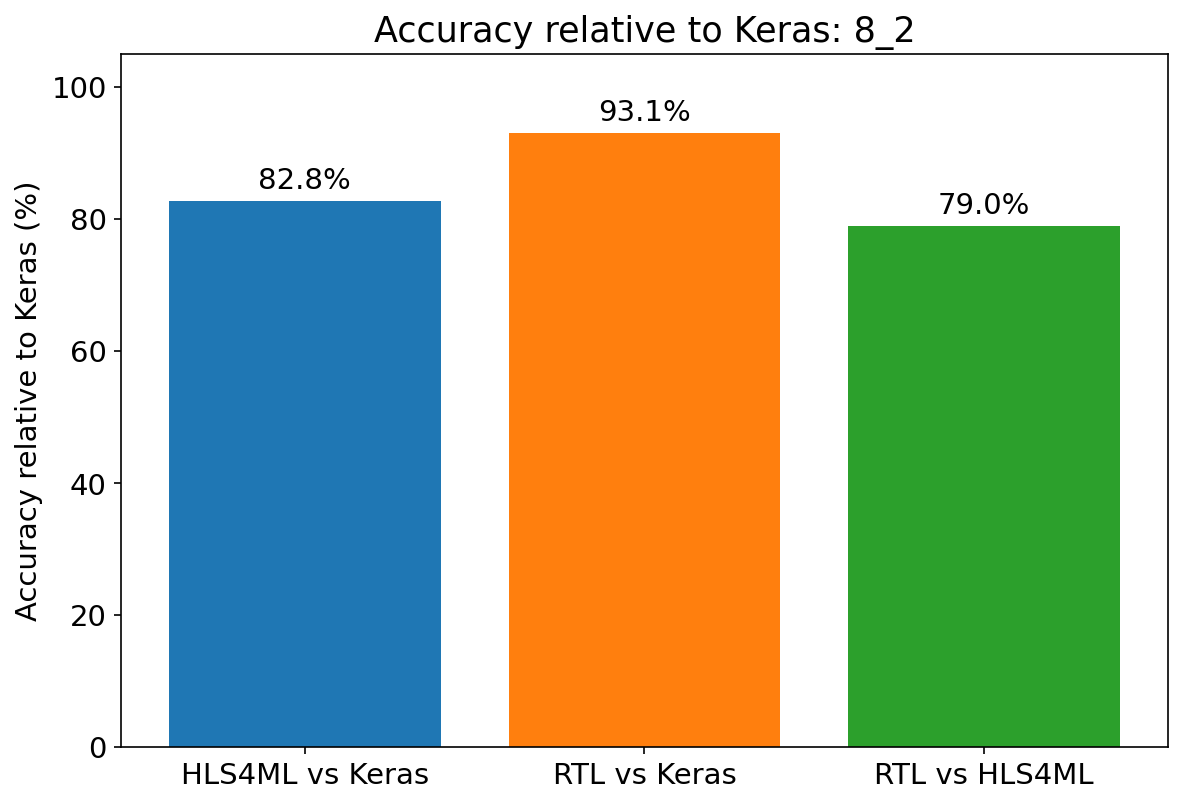
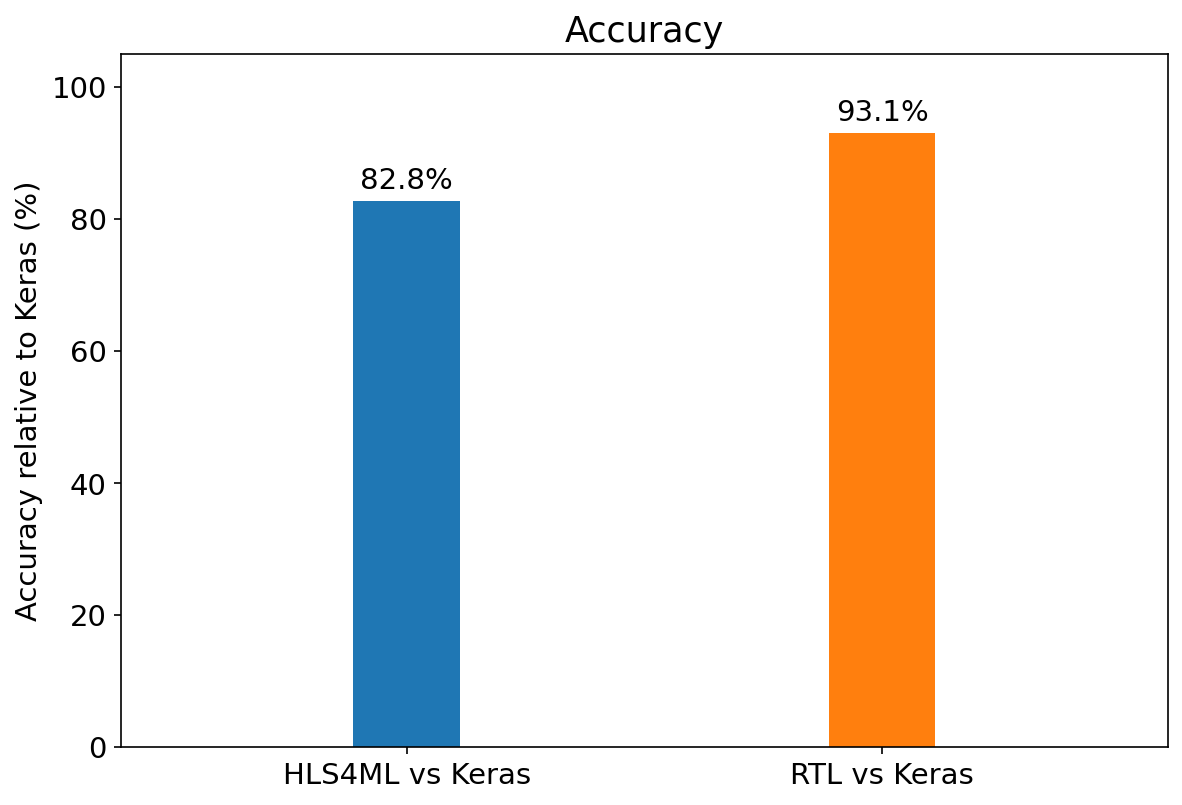
updated graphs

diff --git a/src/hdl/RHEED_Gaussian/Gaussian-Handmade-conv-fixed/scripts/plot_setup.py b/src/hdl/RHEED_Gaussian/Gaussian-Handmade-conv-fixed/scripts/plot_setup.py
@@ -17,8 +17,8 @@ from common import BASE
 from synth_reports import DEVICE_BRAM_TILES, DEVICE_DSPS, DEVICE_FFS, DEVICE_LUTS
 
 RESULTS_CSV = BASE / "results" / "sweep_results.csv"
-HANDMADE_COLOR = "steelblue"
-HLS_COLOR = "darkorange"
+HANDMADE_COLOR = "darkorange"
+HLS_COLOR = "steelblue"
 
 plt.rcParams.update({"font.size": 14})
 
@@ -55,45 +55,66 @@ def plot_utilization(row, tag, graph_dir):
     axis.bar_label(hls_bars, fmt="%.1f%%", padding=3)
     axis.set_xticks(list(positions))
     axis.set_xticklabels(names)
-    axis.set_ylabel("Utilization (% of device)")
+    axis.set_ylabel("Usage (%)")
     axis.set_ylim(0, max(handmade + hls + [1]) * 1.2)
     axis.set_title("Resource Utilization")
     axis.legend()
     figure.savefig(graph_dir / "utilization.png", dpi=150, bbox_inches="tight")
 
 
-# Graph 2: interval and latency ------------
+# Graph 2: latency and initiation interval share one axis (both in µs); clock period (ns) sits to the right ------------
 def plot_timing(row, tag, graph_dir):
-    figure, panels = plt.subplots(1, 2, figsize=(12, 6))
+    width = 0.185
+    gap = 0.62 * width  # bar centres sit a little more than one bar width apart so the value labels fit
+    designs = [("Handmade", "handmade", HANDMADE_COLOR, -gap), ("HLS4ML", "hls", HLS_COLOR, gap)]
+    # panel widths are proportional to the x ranges below, so the bars have the same width in both panels
+    figure, (time_axis, clock_axis) = plt.subplots(1, 2, figsize=(15, 6), gridspec_kw={"width_ratios": [2.2, 1.2]})
 
-    for axis, metric, title in [(panels[0], "interval", "Initiation interval"), (panels[1], "latency", "Total latency")]:
-        cycles = [row["handmade_interval_cycles" if metric == "interval" else "handmade_cycles"],
-                  row["hls_interval_cycles" if metric == "interval" else "hls_cycles"]]
-        microseconds = [row[f"handmade_{metric}_ns"] / 1000, row[f"hls_{metric}_ns"] / 1000]
-        labels = [f"{us:.1f} µs\n{c:.0f} cycles" for us, c in zip(microseconds, cycles)]
-        bars = axis.bar(["Handmade", "HLS4ML"], microseconds, color=[HANDMADE_COLOR, HLS_COLOR])
-        axis.bar_label(bars, labels=labels, padding=3)
-        axis.set_ylabel(f"{title} (µs)")
-        axis.set_ylim(0, max(microseconds) * 1.25)
-        axis.set_title(title)
+    groups = [("Latency", "latency"), ("Initiation interval (II)", "interval")]
+    tallest = 0
+    for position, (name, metric) in enumerate(groups):
+        for label, prefix, color, offset in designs:
+            microseconds = row[f"{prefix}_{metric}_ns"] / 1000
+            bar = time_axis.bar(position + offset, microseconds, width, color=color, label=label if position == 0 else None)
+            time_axis.bar_label(bar, labels=[f"{microseconds:.1f} µs"], padding=3, fontsize=12)
+            tallest = max(tallest, microseconds)
+    time_axis.set_xticks(range(len(groups)))
+    time_axis.set_xticklabels([name for name, _ in groups])
+    time_axis.set_xlim(-0.6, 1.6)
+    time_axis.set_ylim(0, tallest * 1.3)
+    time_axis.set_ylabel("Time (µs)")
+    time_axis.legend()
 
-    figure.suptitle(f"Timing, setup {tag} (clock {row['handmade_period_ns']:g} ns handmade, {row['hls_period_ns']:g} ns HLS4ML)")
+    tallest = 0
+    for label, prefix, color, offset in designs:
+        period = row[f"{prefix}_period_ns"]
+        bar = clock_axis.bar(offset, period, width, color=color)
+        clock_axis.bar_label(bar, labels=[f"{period:g} ns"], padding=3, fontsize=12)
+        tallest = max(tallest, period)
+    clock_axis.set_xticks([0])
+    clock_axis.set_xticklabels(["Clock period"])
+    clock_axis.set_xlim(-0.6, 0.6)
+    clock_axis.set_ylim(0, tallest * 1.3)
+    clock_axis.set_ylabel("Clock period (ns)")
+
+    figure.suptitle("Performance Comparison")
     figure.tight_layout()
     figure.savefig(graph_dir / "timing.png", dpi=150, bbox_inches="tight")
 
 
 # Graph 3: accuracy ------------
 def plot_accuracy(row, tag, graph_dir):
-    """100 * (1 - mean error / mean |Keras output|); the last bar uses the same scale."""
-    names = ["HLS4ML vs Keras", "RTL vs Keras", "RTL vs HLS4ML"]
-    values = [row["hls_vs_keras_pct"], row["rtl_vs_keras_pct"], row["rtl_vs_hls_pct"]]
+    """100 * (1 - mean error / mean |Keras output|)."""
+    names = ["HLS4ML vs Keras", "RTL vs Keras"]
+    values = [row["hls_vs_keras_pct"], row["rtl_vs_keras_pct"]]
 
     figure, axis = plt.subplots(figsize=(9, 6))
-    bars = axis.bar(names, values, color=["tab:blue", "tab:orange", "tab:green"])
+    bars = axis.bar(names, values, width=0.224, color=["tab:blue", "tab:orange"])
+    axis.set_xlim(-0.6, 1.6)
     axis.bar_label(bars, fmt="%.1f%%", padding=3)
     axis.set_ylabel("Accuracy relative to Keras (%)")
     axis.set_ylim(min(0, min(values) * 1.2), 105)
-    axis.set_title(f"Accuracy relative to Keras: {tag}")
+    axis.set_title("Accuracy")
     figure.savefig(graph_dir / "accuracy.png", dpi=150, bbox_inches="tight")
 
 
